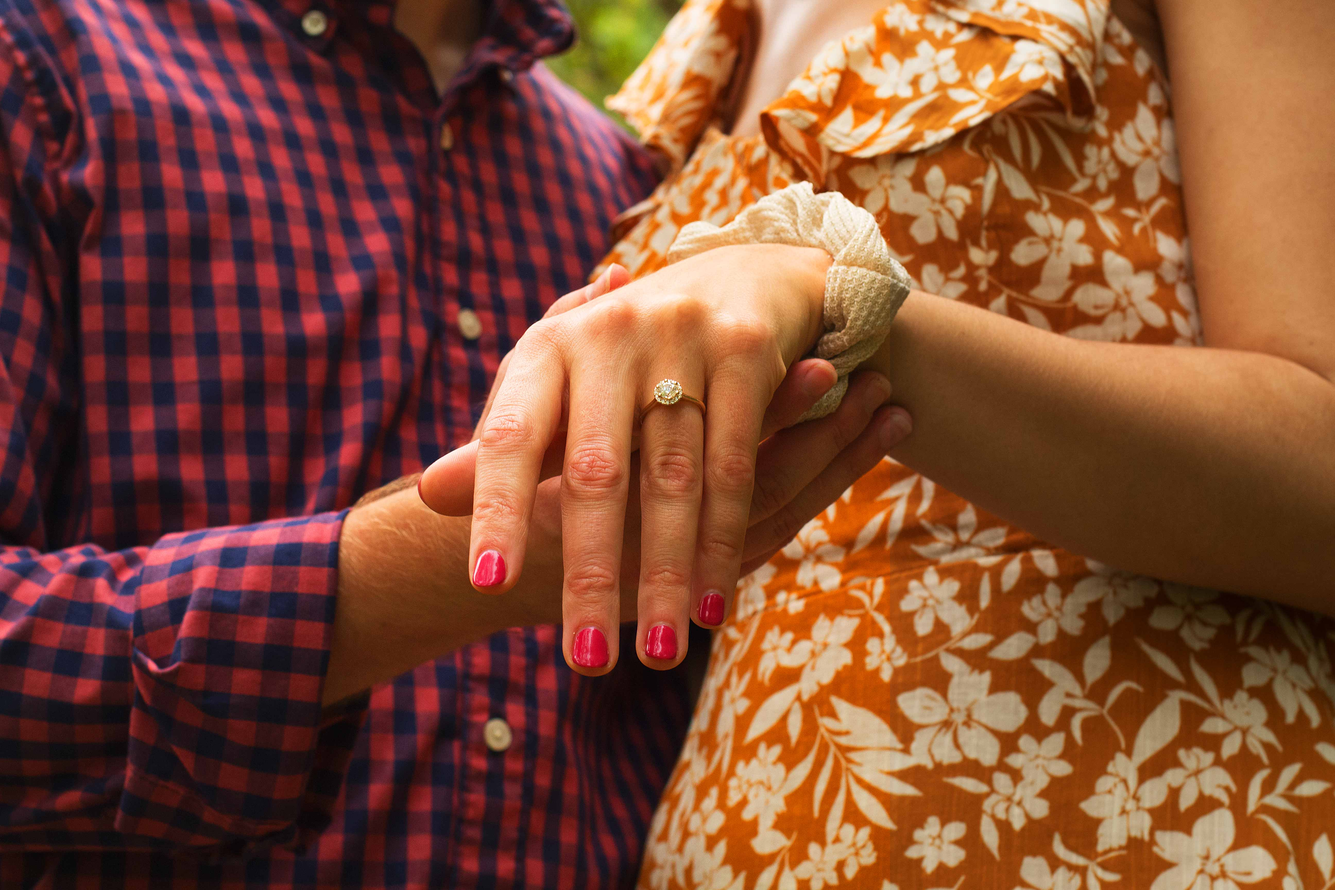
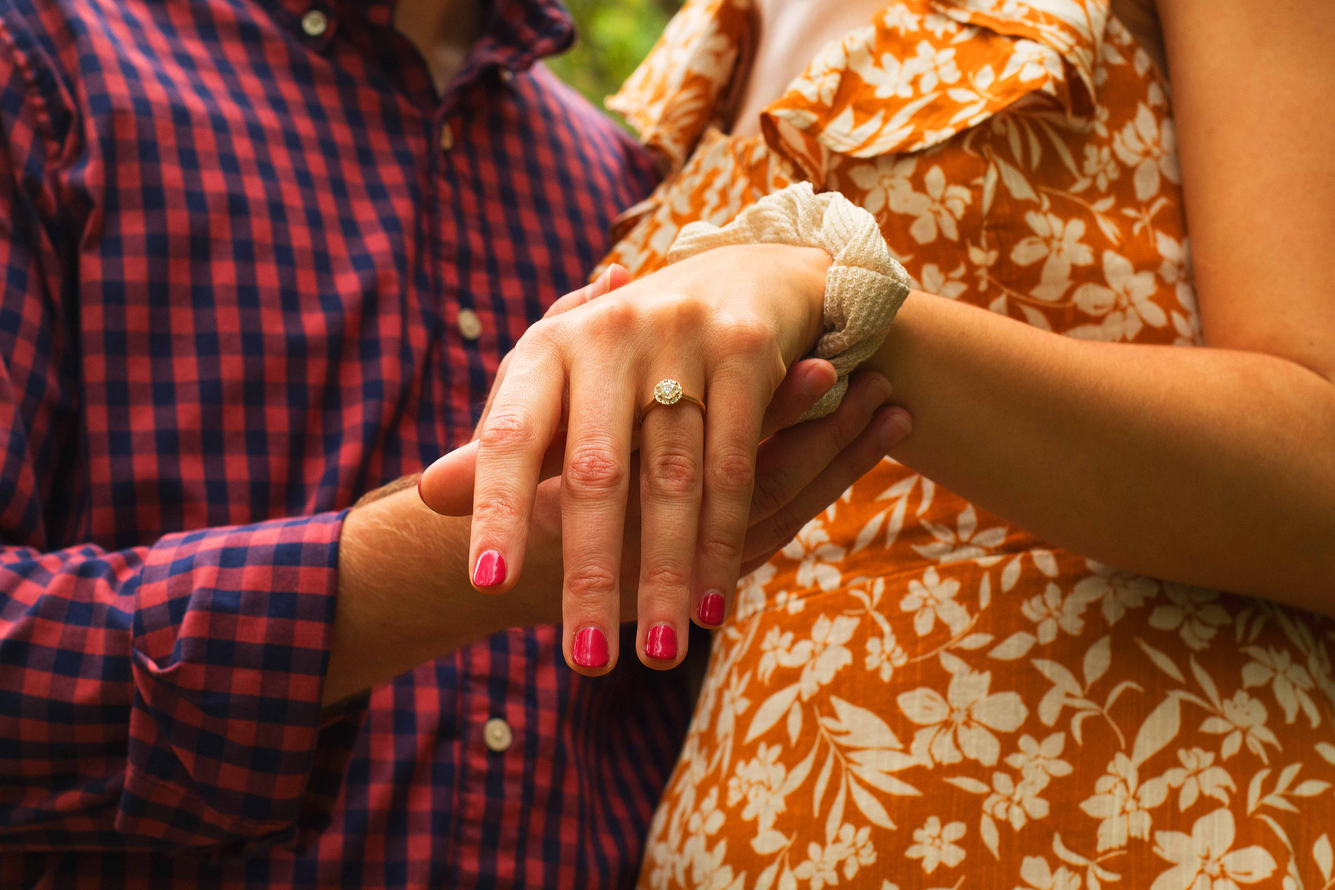
Change to compressed webp format

diff --git a/visual.html b/visual.html
@@ -134,73 +134,73 @@
 
                     <div class="photo-container m-0 p-0">
                         <a href="#" class="row photo-portrait m-0">
-                            <div class="visually-hidden">img/portraits/austin_esther_engaged_2.jpg</div>
+                            <div class="visually-hidden">img/portraits/austin_esther_engaged_2_resized.webp</div>
                         </a>
                     </div>
 
                     <div class="photo-container m-0 p-0">
                         <a href="#" class="row photo-portrait m-0">
-                            <div class="visually-hidden">img/portraits/esther_ring.jpg</div>
+                            <div class="visually-hidden">img/portraits/esther_ring_resized.webp</div>
                         </a>
                     </div>
 
                     <div class="photo-container m-0 p-0">
                         <a href="#" class="row photo-portrait m-0">
-                            <div class="visually-hidden">img/portraits/austin_esther_engaged.jpg</div>
+                            <div class="visually-hidden">img/portraits/austin_esther_engaged_resized.webp</div>
                         </a>
                     </div>
 
                     <div class="photo-container m-0 p-0">
                         <a href="#" class="row photo-portrait m-0">
-                            <div class="visually-hidden">img/portraits/parker_lucas_ball.jpg</div>
+                            <div class="visually-hidden">img/portraits/parker_lucas_ball_resized.webp</div>
                         </a>
                     </div>
 
                     <div class="photo-container m-0 p-0">
                         <a href="#" class="row photo-portrait m-0">
-                            <div class="visually-hidden">img/portraits/parker_lucas_engaged_2.jpg</div>
+                            <div class="visually-hidden">img/portraits/parker_lucas_engaged_2_resized.webp</div>
                         </a>
                     </div>
 
                     <div class="photo-container m-0 p-0">
                         <a href="#" class="row photo-portrait m-0">
-                            <div class="visually-hidden">img/portraits/parker_lucas_engaged.jpg</div>
+                            <div class="visually-hidden">img/portraits/parker_lucas_engaged_resized.webp</div>
                         </a>
                     </div>
 
                     <div class="photo-container m-0 p-0">
                         <a href="#" class="row photo-portrait m-0">
-                            <div class="visually-hidden">img/portraits/mallory_parker_shannon.jpg</div>
+                            <div class="visually-hidden">img/portraits/mallory_parker_shannon_resized.webp</div>
                         </a>
                     </div>
 
                     <div class="photo-container m-0 p-0">
                         <a href="#" class="row photo-portrait m-0">
-                            <div class="visually-hidden">img/portraits/hanna_bella.jpg</div>
+                            <div class="visually-hidden">img/portraits/hanna_bella_resized.webp</div>
                         </a>
                     </div>
 
                     <div class="photo-container m-0 p-0">
                         <a href="#" class="row photo-portrait m-0">
-                            <div class="visually-hidden">img/portraits/hanna_farm.jpg</div>
+                            <div class="visually-hidden">img/portraits/hanna_farm_resized.webp</div>
                         </a>
                     </div>
 
                     <div class="photo-container m-0 p-0">
                         <a href="#" class="row photo-portrait m-0">
-                            <div class="visually-hidden">img/portraits/hanna_michigan.jpg</div>
+                            <div class="visually-hidden">img/portraits/hanna_michigan_resized.webp</div>
                         </a>
                     </div>
 
                     <div class="photo-container m-0 p-0">
                         <a href="#" class="row photo-portrait m-0">
-                            <div class="visually-hidden">img/portraits/lucas_guitar.jpg</div>
+                            <div class="visually-hidden">img/portraits/lucas_guitar_resized.webp</div>
                         </a>
                     </div>
 
                     <div class="photo-container m-0 p-0">
                         <a href="#" class="row photo-portrait m-0">
-                            <div class="visually-hidden">img/portraits/lucas_sam_caleb_river.jpg</div>
+                            <div class="visually-hidden">img/portraits/lucas_sam_caleb_river_resized.webp</div>
                         </a>
                     </div>
 
@@ -230,61 +230,61 @@
 
                     <div class="photo-container m-0 p-0">
                         <a href="#" class="row photo-nature m-0">
-                            <div class="visually-hidden">img/nature/gizzard_river.jpg</div>
+                            <div class="visually-hidden">img/nature/gizzard_river_resized.webp</div>
                         </a>
                     </div>
 
                     <div class="photo-container m-0 p-0">
                         <a href="#" class="row photo-nature m-0">
-                            <div class="visually-hidden">img/nature/four_seasons_row.jpg</div>
+                            <div class="visually-hidden">img/nature/four_seasons_row_resized.webp</div>
                         </a>
                     </div>
 
                     <div class="photo-container m-0 p-0">
                         <a href="#" class="row photo-nature m-0">
-                            <div class="visually-hidden">img/nature/asiatic_lily_2.jpg</div>
+                            <div class="visually-hidden">img/nature/asiatic_lily_2_resized.webp</div>
                         </a>
                     </div>
 
                     <div class="photo-container m-0 p-0">
                         <a href="#" class="row photo-nature m-0">
-                            <div class="visually-hidden">img/nature/blue_four_seasons.jpg</div>
+                            <div class="visually-hidden">img/nature/blue_four_seasons_resized.webp</div>
                         </a>
                     </div>
 
                     <div class="photo-container m-0 p-0">
                         <a href="#" class="row photo-nature m-0">
-                            <div class="visually-hidden">img/nature/small_shady_flowers.jpg</div>
+                            <div class="visually-hidden">img/nature/small_shady_flowers_resized.webp</div>
                         </a>
                     </div>
 
                     <div class="photo-container m-0 p-0">
                         <a href="#" class="row photo-nature m-0">
-                            <div class="visually-hidden">img/nature/daisies.jpg</div>
+                            <div class="visually-hidden">img/nature/daisies_resized.webp</div>
                         </a>
                     </div>
 
                     <div class="photo-container m-0 p-0">
                         <a href="#" class="row photo-nature m-0">
-                            <div class="visually-hidden">img/nature/yellow_butterfly_flower.jpg</div>
+                            <div class="visually-hidden">img/nature/yellow_butterfly_flower_resized.webp</div>
                         </a>
                     </div>
 
                     <div class="photo-container m-0 p-0">
                         <a href="#" class="row photo-nature m-0">
-                            <div class="visually-hidden">img/nature/monarch.jpg</div>
+                            <div class="visually-hidden">img/nature/monarch_resized.webp</div>
                         </a>
                     </div>
 
                     <div class="photo-container m-0 p-0">
                         <a href="#" class="row photo-nature m-0">
-                            <div class="visually-hidden">img/nature/orange_sunset.jpg</div>
+                            <div class="visually-hidden">img/nature/orange_sunset_resized.webp</div>
                         </a>
                     </div>
 
                     <div class="photo-container m-0 p-0">
                         <a href="#" class="row photo-nature m-0">
-                            <div class="visually-hidden">img/nature/parking_lot_sunset.jpg</div>
+                            <div class="visually-hidden">img/nature/parking_lot_sunset_resized.webp</div>
                         </a>
                     </div>
 

diff --git a/css/background_img.css b/css/background_img.css
@@ -11,11 +11,11 @@
 }
 
 #home_bioArticle {
-    background-image: url('../img/ben_trainor/lens_cap.jpg');
+    background-image: url('../img/ben_trainor/lens_cap_resized.webp');
 }
 
 #home_musicArticle {
-    background-image: url('../img/ben_trainor/disposable_car_top.jpg');
+    background-image: url('../img/ben_trainor/disposable_car_top_resized.webp');
 }
 
 #home_soundArticle {
@@ -23,18 +23,18 @@
 }
 
 #home_visualArticle {
-    background-image: url('../img/portraits/esther_ring.jpg');
+    background-image: url('../img/portraits/esther_ring_resized.webp');
 }
 
 #home_guitarArticle {
-    background-image: url('../img/ben_trainor/Paper\ Watch\ We\ Are\ the\ Swimmers\ 2_00596.jpg');
+    background-image: url('../img/ben_trainor/Paper\ Watch\ We\ Are\ the\ Swimmers\ 2_00596_resized.webp');
 }
 
 
 /* Visual */
 
 #visual_titleArticle {
-    background-image: url('../img/nature/white_shaded.jpg');
+    background-image: url('../img/nature/white_shaded_resized.webp');
 }
 
 

diff --git a/css/main.css b/css/main.css
@@ -120,7 +120,7 @@
 
     .header-box {
         height: 60vw;
-        background-image: linear-gradient(rgba(0, 0, 0, 0.5), rgba(54, 42, 30, 0.5)), url('../img/ben_trainor/coffee_shop.jpg');
+        background-image: linear-gradient(rgba(0, 0, 0, 0.5), rgba(54, 42, 30, 0.5)), url('../img/ben_trainor/coffee_shop_resized.webp');
         /* background-blend-mode: darken; */
         background-repeat: no-repeat;
         background-size: cover;
